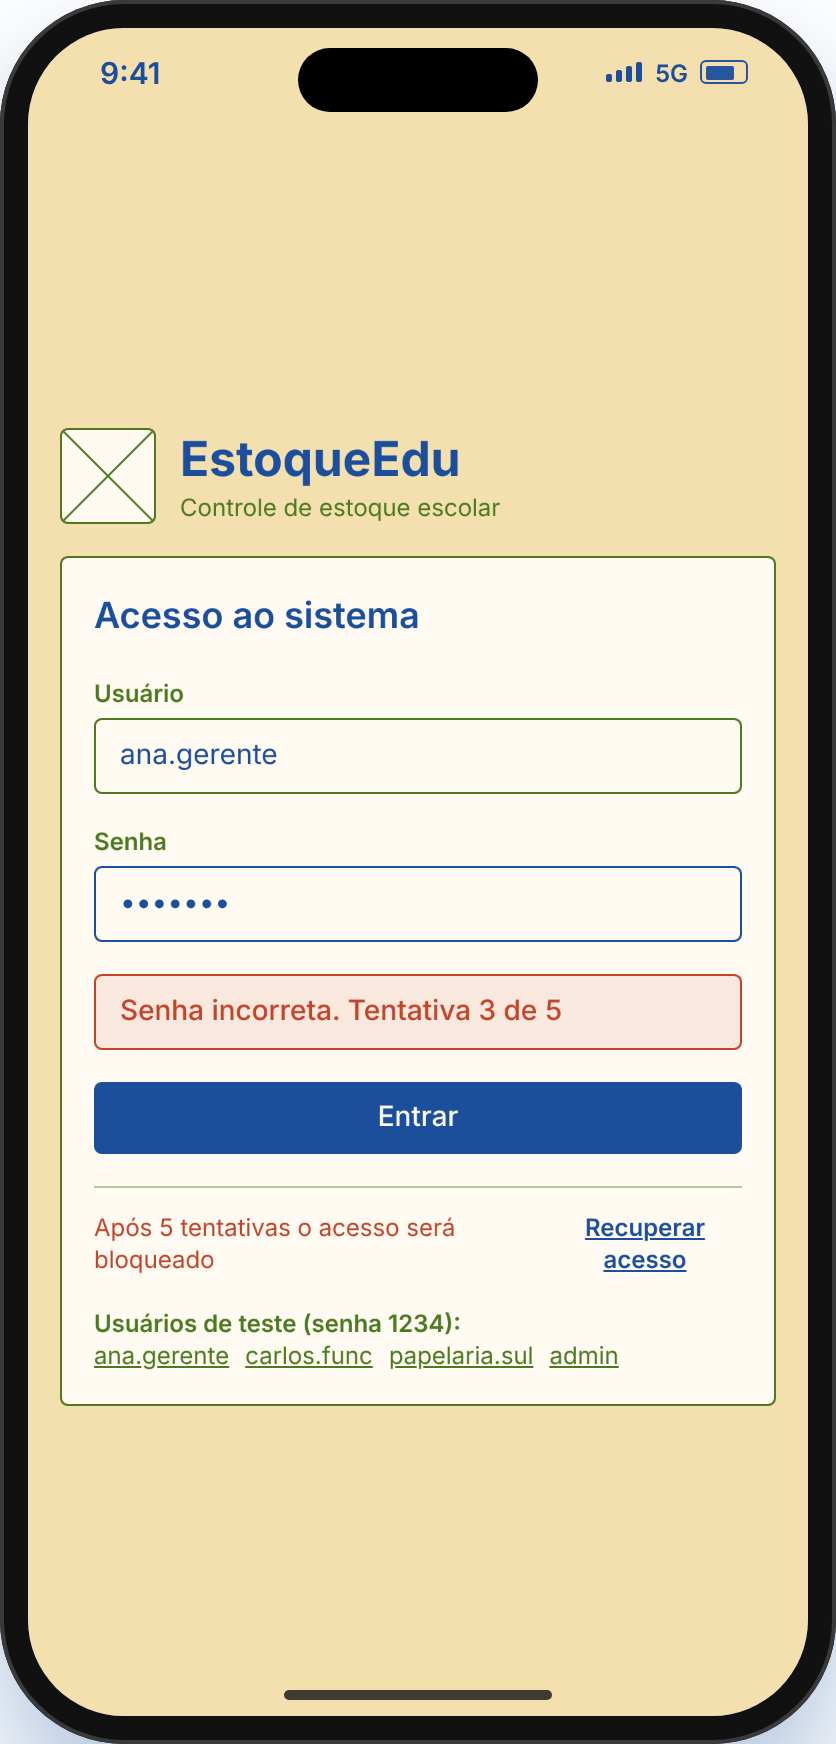
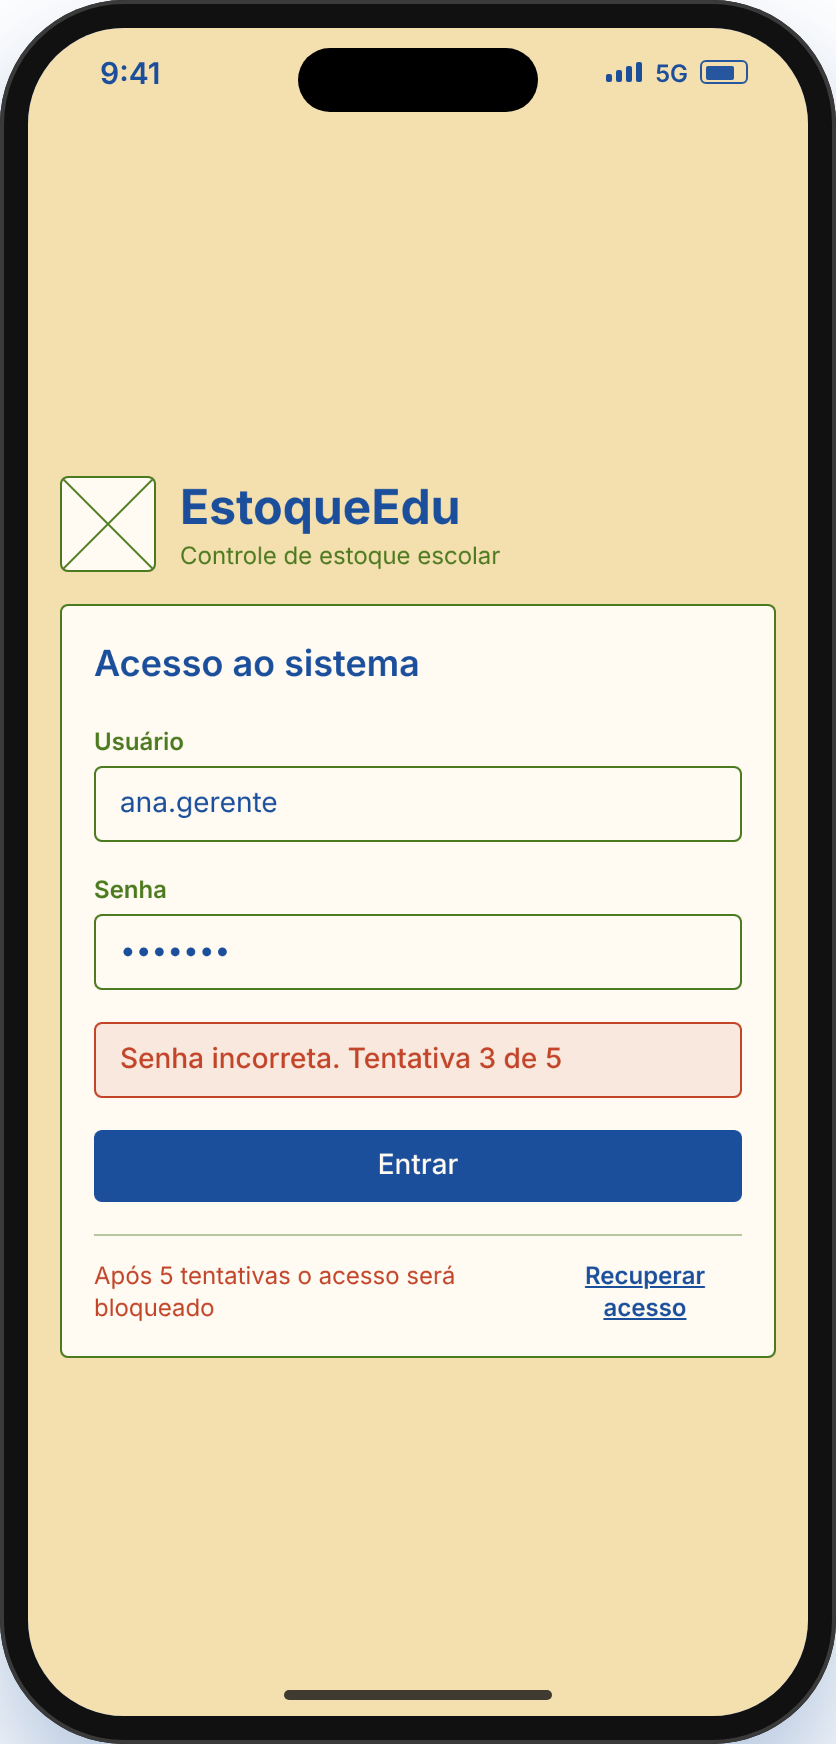
Remove elementos de teste/simulação e gera prints apenas com o celular
Claude-Session: https://claude.ai/code/session_01NSbryKPJoG8dLUSbuvTBxM

Changed region(s): [[0.0622, 0.2477, 0.933, 0.805], [0.8708, 0.4335, 0.9019, 0.4644]]

diff --git a/src/App.jsx b/src/App.jsx
@@ -55,7 +55,7 @@ const CONSUMO_MENSAL = [
 const MENU = [
   { id: 'estoque', rotulo: 'Estoque / Itens' },
   { id: 'solicitacao', rotulo: 'Nova solicitação' },
-  { id: 'aprovacao', rotulo: 'Aprovação (Gerente)' },
+  { id: 'aprovacao', rotulo: 'Aprovações' },
   { id: 'relatorios', rotulo: 'Relatórios' },
 ]
 
@@ -107,10 +107,10 @@ function Titulo({ titulo, subtitulo }) {
 }
 
 function TelaLogin({ onEntrar }) {
-  const [login, setLogin] = useState('ana.gerente')
+  const [login, setLogin] = useState('')
   const [senha, setSenha] = useState('')
-  const [tentativas, setTentativas] = useState(3)
-  const [erro, setErro] = useState('Senha incorreta. Tentativa 3 de 5')
+  const [tentativas, setTentativas] = useState(2)
+  const [erro, setErro] = useState('')
   const [aviso, setAviso] = useState('')
   const bloqueado = tentativas >= 5
 
@@ -142,25 +142,19 @@ function TelaLogin({ onEntrar }) {
           <h1 className="text-lg font-semibold text-[#1B4F9C]">Acesso ao sistema</h1>
           <div>
             <label className="mb-1 block text-xs font-semibold text-[#4C7A1F]">Usuário</label>
-            <input className={inputCls} value={login} onChange={(e) => setLogin(e.target.value)} disabled={bloqueado} />
+            <input className={inputCls} value={login} onChange={(e) => setLogin(e.target.value)} placeholder="Digite seu usuário" disabled={bloqueado} />
           </div>
           <div>
             <label className="mb-1 block text-xs font-semibold text-[#4C7A1F]">Senha</label>
-            <input type="password" className={inputCls} value={senha} onChange={(e) => setSenha(e.target.value)} placeholder="••••" disabled={bloqueado} />
+            <input type="password" className={inputCls} value={senha} onChange={(e) => setSenha(e.target.value)} placeholder="Digite sua senha" disabled={bloqueado} />
           </div>
           {erro && <div className="rounded border border-[#C2452A] bg-[#C2452A]/10 px-3 py-2 text-sm font-medium text-[#C2452A]">{erro}</div>}
           <button type="submit" className={`${btnPrimario} w-full`} disabled={bloqueado}>Entrar</button>
           <div className="flex items-center justify-between border-t border-[#4C7A1F]/40 pt-3 text-xs">
             <span className="text-[#C2452A]">Após 5 tentativas o acesso será bloqueado</span>
-            <button type="button" className="font-semibold text-[#1B4F9C] underline" onClick={() => setAviso('Um link de recuperação foi enviado ao e-mail cadastrado (simulação).')}>Recuperar acesso</button>
+            <button type="button" className="font-semibold text-[#1B4F9C] underline" onClick={() => setAviso('Enviamos um link de recuperação para o e-mail cadastrado.')}>Recuperar acesso</button>
           </div>
           {aviso && <div className="rounded border border-[#4C7A1F] px-3 py-2 text-xs text-[#4C7A1F]">{aviso}</div>}
-          <div className="text-xs text-[#4C7A1F]">
-            <div className="font-semibold">Usuários de teste (senha 1234):</div>
-            {USUARIOS.map((u) => (
-              <button key={u.login} type="button" className="mr-2 underline" onClick={() => setLogin(u.login)}>{u.login}</button>
-            ))}
-          </div>
         </form>
       </div>
     </div>
@@ -477,7 +471,7 @@ function TelaAprovacao({ usuario, itens, setItens, solicitacoes, setSolicitacoes
         <Titulo titulo="Aprovação de solicitações" />
         <div className="rounded border border-[#C2452A] bg-[#FFFBF2] p-6 text-[#C2452A]">
           <div className="font-semibold">Acesso restrito</div>
-          <div className="text-sm">Somente usuários com perfil Gerente podem aprovar ou rejeitar solicitações. Use o seletor de perfil na barra superior para simular.</div>
+          <div className="text-sm">Somente usuários com perfil Gerente podem aprovar ou rejeitar solicitações.</div>
         </div>
       </div>
     )
@@ -741,7 +735,7 @@ function TelaRelatorios({ itens }) {
         {botoes.map((b) => (
           <button key={b.id} className={tipo === b.id ? btnPrimario : btnContorno} onClick={() => { setTipo(b.id); setMensagem('') }}>{b.rotulo}</button>
         ))}
-        <button className={`${btnSecundario} col-span-2 sm:ml-auto`} onClick={() => setMensagem(`Relatório "${atual.titulo}" exportado (simulação) — período ${formatar(inicio)} a ${formatar(fim)}.`)}>Exportar</button>
+        <button className={`${btnSecundario} col-span-2 sm:ml-auto`} onClick={() => setMensagem(`Relatório "${atual.titulo}" exportado com sucesso — período ${formatar(inicio)} a ${formatar(fim)}.`)}>Exportar</button>
       </div>
 
       {mensagem && <div className="mb-4 rounded border border-[#4C7A1F] bg-[#FFFBF2] px-3 py-2 text-sm text-[#4C7A1F]">{mensagem}</div>}
@@ -778,9 +772,7 @@ function TelaRelatorios({ itens }) {
   )
 }
 
-const PERFIS = ['Gerente', 'Fornecedor', 'Funcionário', 'Administrador']
-
-function BarraSuperior({ usuario, onTrocarPerfil, onSair, onAbrirMenu }) {
+function BarraSuperior({ usuario, onSair, onAbrirMenu }) {
   return (
     <header className="sticky top-0 z-10 flex items-center justify-between gap-2 bg-[#1B4F9C] px-3 py-3 text-[#FFFBF2] md:px-4">
       <div className="flex items-center gap-2 md:gap-3">
@@ -802,9 +794,6 @@ function BarraSuperior({ usuario, onTrocarPerfil, onSair, onAbrirMenu }) {
           <div className="truncate font-semibold">{usuario.nome}</div>
           <div className="text-xs opacity-80">{usuario.perfil}</div>
         </div>
-        <select className="hidden rounded border border-[#FFFBF2]/60 bg-[#1B4F9C] px-2 py-1 text-xs text-[#FFFBF2] md:block" value={usuario.perfil} onChange={(e) => onTrocarPerfil(e.target.value)} title="Simular perfil">
-          {PERFIS.map((p) => <option key={p}>{p}</option>)}
-        </select>
         <button className="hidden rounded border border-[#FFFBF2]/60 px-3 py-1 text-xs hover:bg-[#FFFBF2]/10 md:block" onClick={onSair}>Sair</button>
       </div>
     </header>
@@ -835,7 +824,7 @@ function MenuLateral({ tela, setTela, pendentes }) {
   )
 }
 
-function MenuMobile({ usuario, tela, setTela, pendentes, onTrocarPerfil, onSair, onFechar }) {
+function MenuMobile({ usuario, tela, setTela, pendentes, onSair, onFechar }) {
   return (
     <div className="fixed inset-0 z-30 md:hidden">
       <div className="absolute inset-0 bg-[#1B4F9C]/60" onClick={onFechar} />
@@ -846,10 +835,7 @@ function MenuMobile({ usuario, tela, setTela, pendentes, onTrocarPerfil, onSair,
         </div>
         <div className="mb-4 rounded border border-[#FFFBF2]/30 p-3">
           <div className="font-semibold">{usuario.nome}</div>
-          <label className="mt-2 block text-xs opacity-70">Perfil</label>
-          <select className="mt-1 w-full rounded border border-[#FFFBF2]/60 bg-[#1B4F9C] px-2 py-1 text-sm text-[#FFFBF2]" value={usuario.perfil} onChange={(e) => onTrocarPerfil(e.target.value)}>
-            {PERFIS.map((p) => <option key={p}>{p}</option>)}
-          </select>
+          <div className="text-xs opacity-80">{usuario.perfil}</div>
         </div>
         <div className="mb-2 px-2 text-xs uppercase tracking-wider opacity-60">Menu</div>
         <ListaMenu tela={tela} onSelecionar={(id) => { setTela(id); onFechar() }} pendentes={pendentes} />
@@ -872,13 +858,12 @@ export default function App() {
 
   const pendentes = solicitacoes.filter((s) => s.status === 'Pendente').length
   const props = { usuario, itens, setItens, solicitacoes, setSolicitacoes }
-  const trocarPerfil = (perfil) => setUsuario({ ...usuario, perfil })
   const sair = () => { setMenuAberto(false); setUsuario(null) }
 
   return (
     <div className="flex min-h-screen flex-col bg-[#F4DFAF]">
-      <BarraSuperior usuario={usuario} onTrocarPerfil={trocarPerfil} onSair={sair} onAbrirMenu={() => setMenuAberto(true)} />
-      {menuAberto && <MenuMobile usuario={usuario} tela={tela} setTela={setTela} pendentes={pendentes} onTrocarPerfil={trocarPerfil} onSair={sair} onFechar={() => setMenuAberto(false)} />}
+      <BarraSuperior usuario={usuario} onSair={sair} onAbrirMenu={() => setMenuAberto(true)} />
+      {menuAberto && <MenuMobile usuario={usuario} tela={tela} setTela={setTela} pendentes={pendentes} onSair={sair} onFechar={() => setMenuAberto(false)} />}
       <div className="flex flex-1">
         <MenuLateral tela={tela} setTela={setTela} pendentes={pendentes} />
         <main className="min-w-0 flex-1 p-4 md:p-6">

diff --git a/README.md b/README.md
@@ -22,7 +22,7 @@ Senha de todos os usuários de teste: `1234`
 | papelaria.sul  | Fornecedor    |
 | admin          | Administrador |
 
-O seletor de perfil na barra superior permite simular outro perfil sem sair do sistema.
+Para ver as telas de outro perfil, saia e entre com o usuário correspondente.
 
 ## Responsividade
 
@@ -43,10 +43,11 @@ O layout é responsivo:
 
 ## Prints para apresentação
 
-A pasta [`prints/`](prints) contém capturas da versão mobile dentro de uma moldura de celular:
+A pasta [`prints/`](prints) contém capturas da versão mobile dentro de uma moldura de celular, com fundo transparente:
 
-- `visao-geral-1.png` e `visao-geral-2.png` — slides 16:9 (3840×2160) com 4 telas cada
-- `01-login.png` … `08-menu.png` — cada tela individual, com fundo transparente
-
-![Visão geral 1](prints/visao-geral-1.png)
-![Visão geral 2](prints/visao-geral-2.png)
+| | | | |
+|:-:|:-:|:-:|:-:|
+| ![Login](prints/01-login.png) | ![Estoque](prints/02-estoque.png) | ![Cadastro de item](prints/03-novo-item.png) | ![Nova solicitação](prints/04-solicitacao.png) |
+| Login | Estoque | Cadastro de item | Nova solicitação |
+| ![Aprovação](prints/05-aprovacao.png) | ![Rejeição](prints/06-rejeicao.png) | ![Relatórios](prints/07-relatorios.png) | ![Menu](prints/08-menu.png) |
+| Aprovação | Rejeição com justificativa | Relatórios | Menu |
